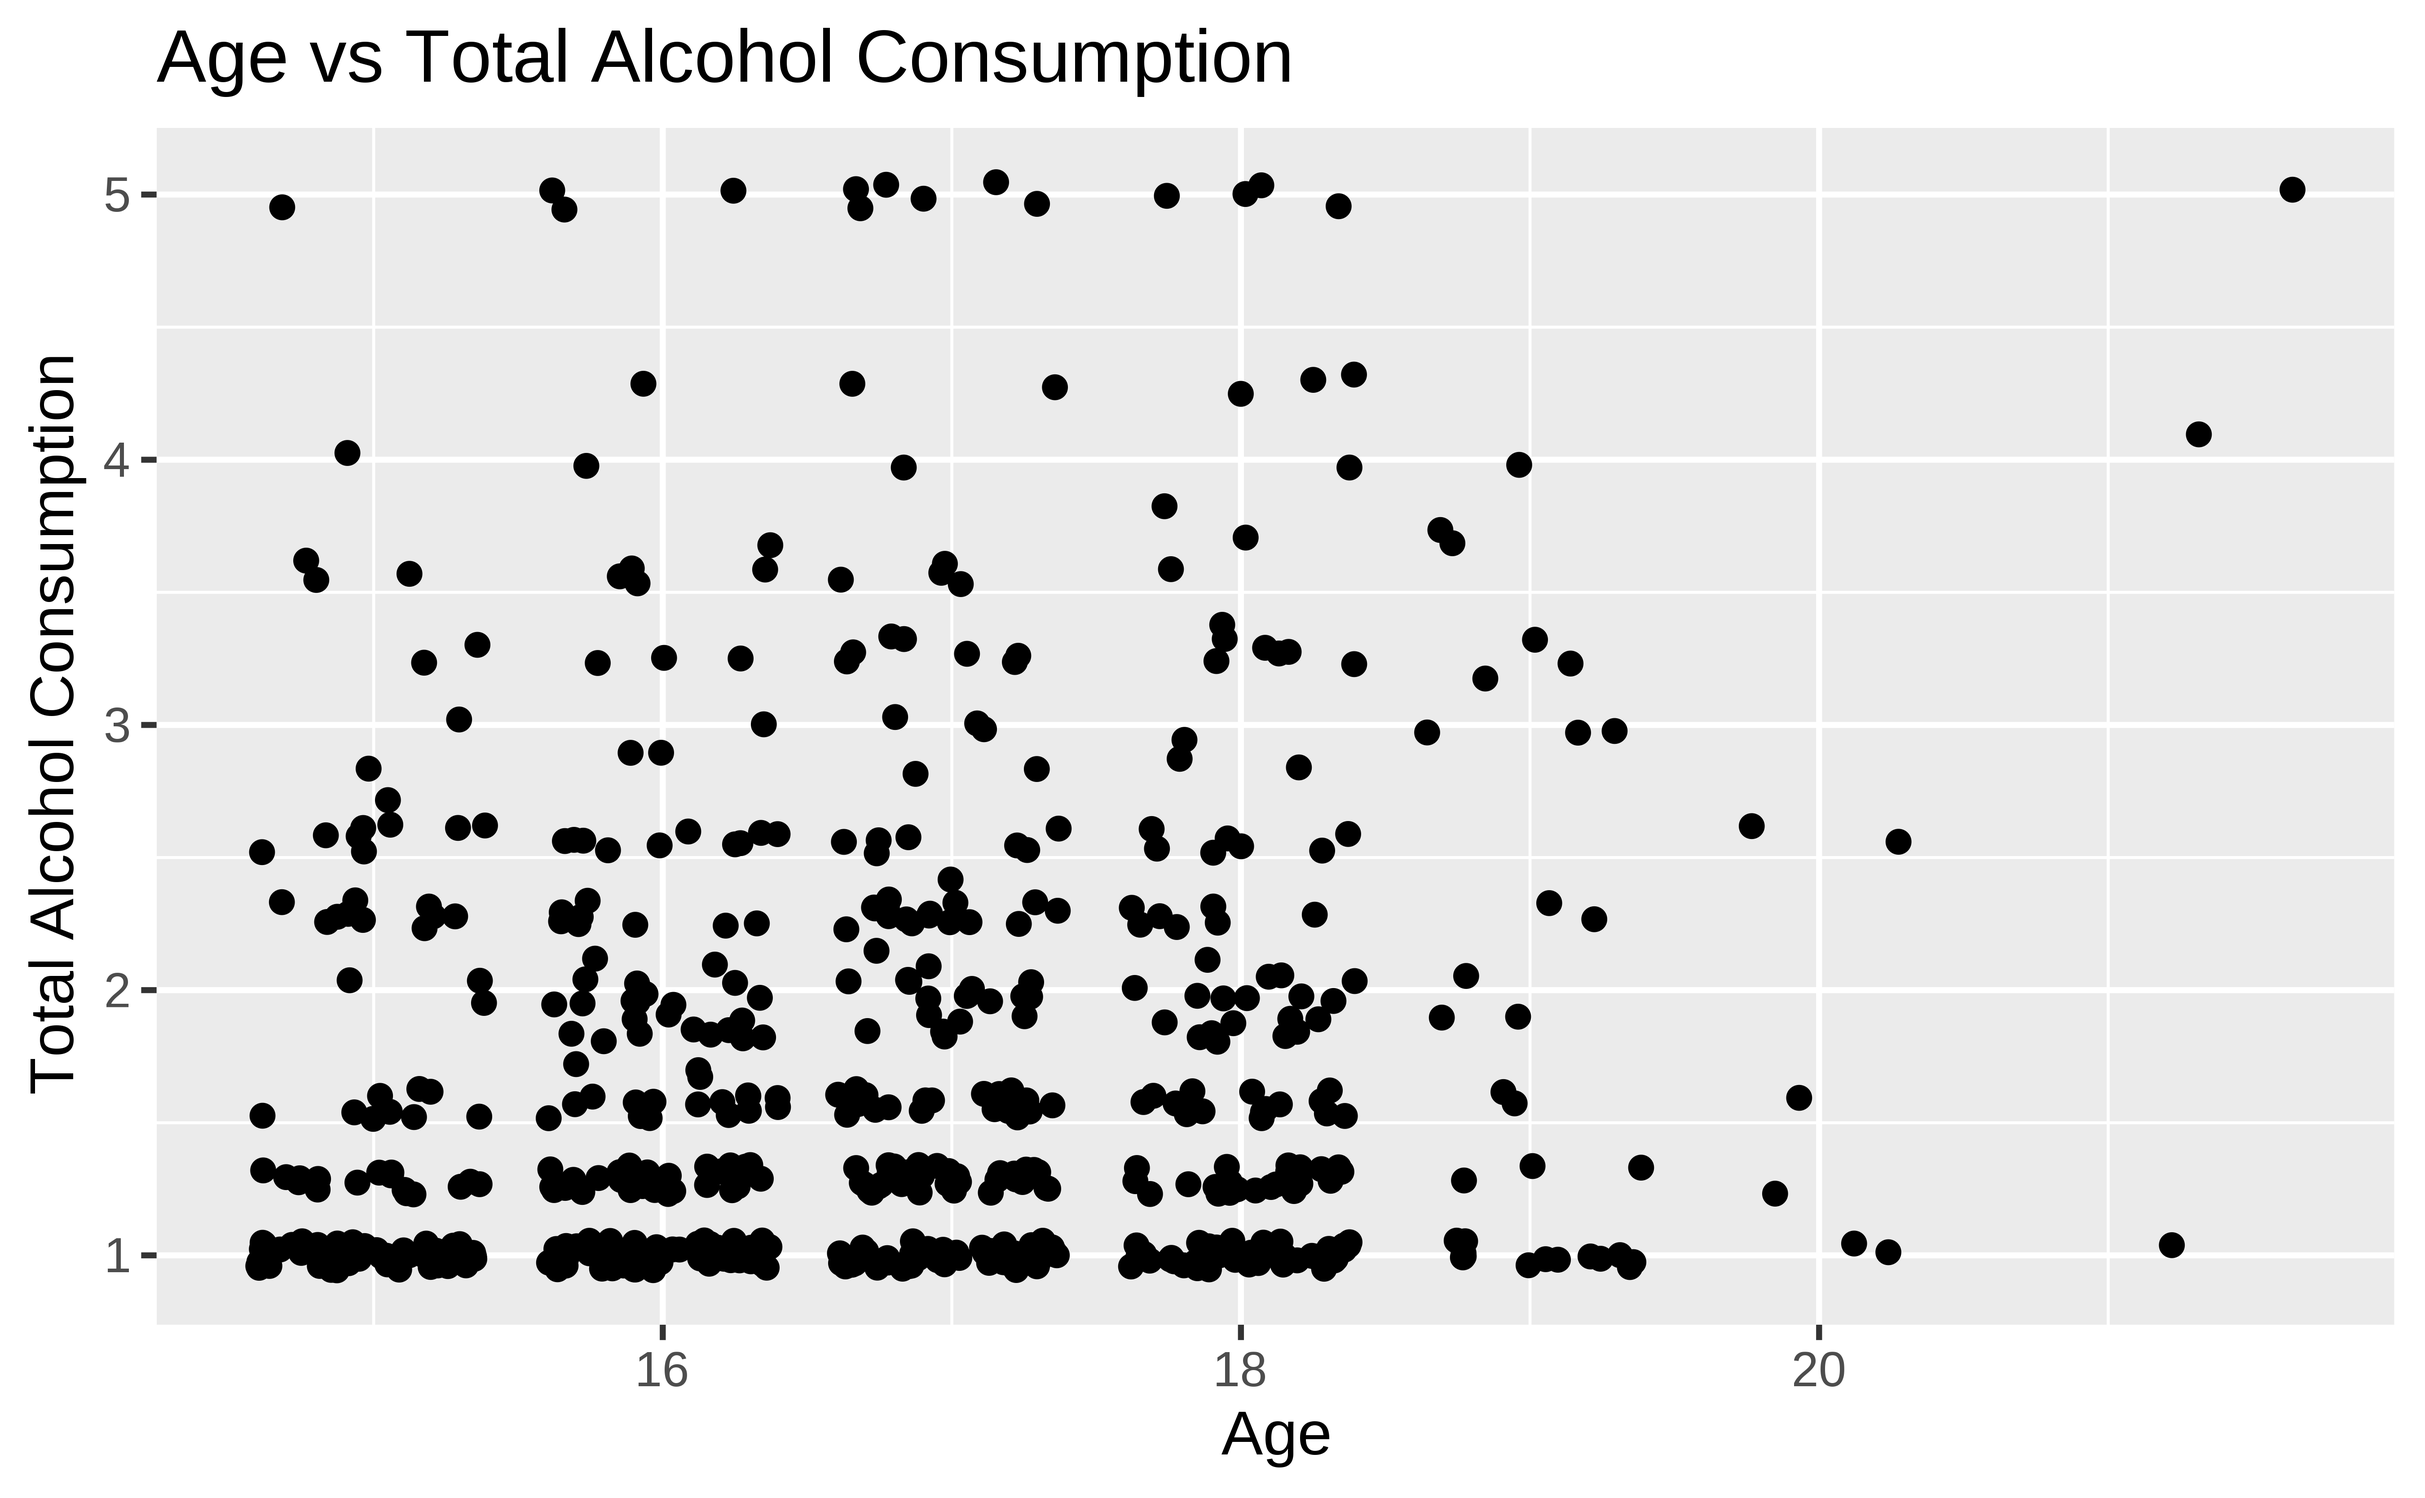
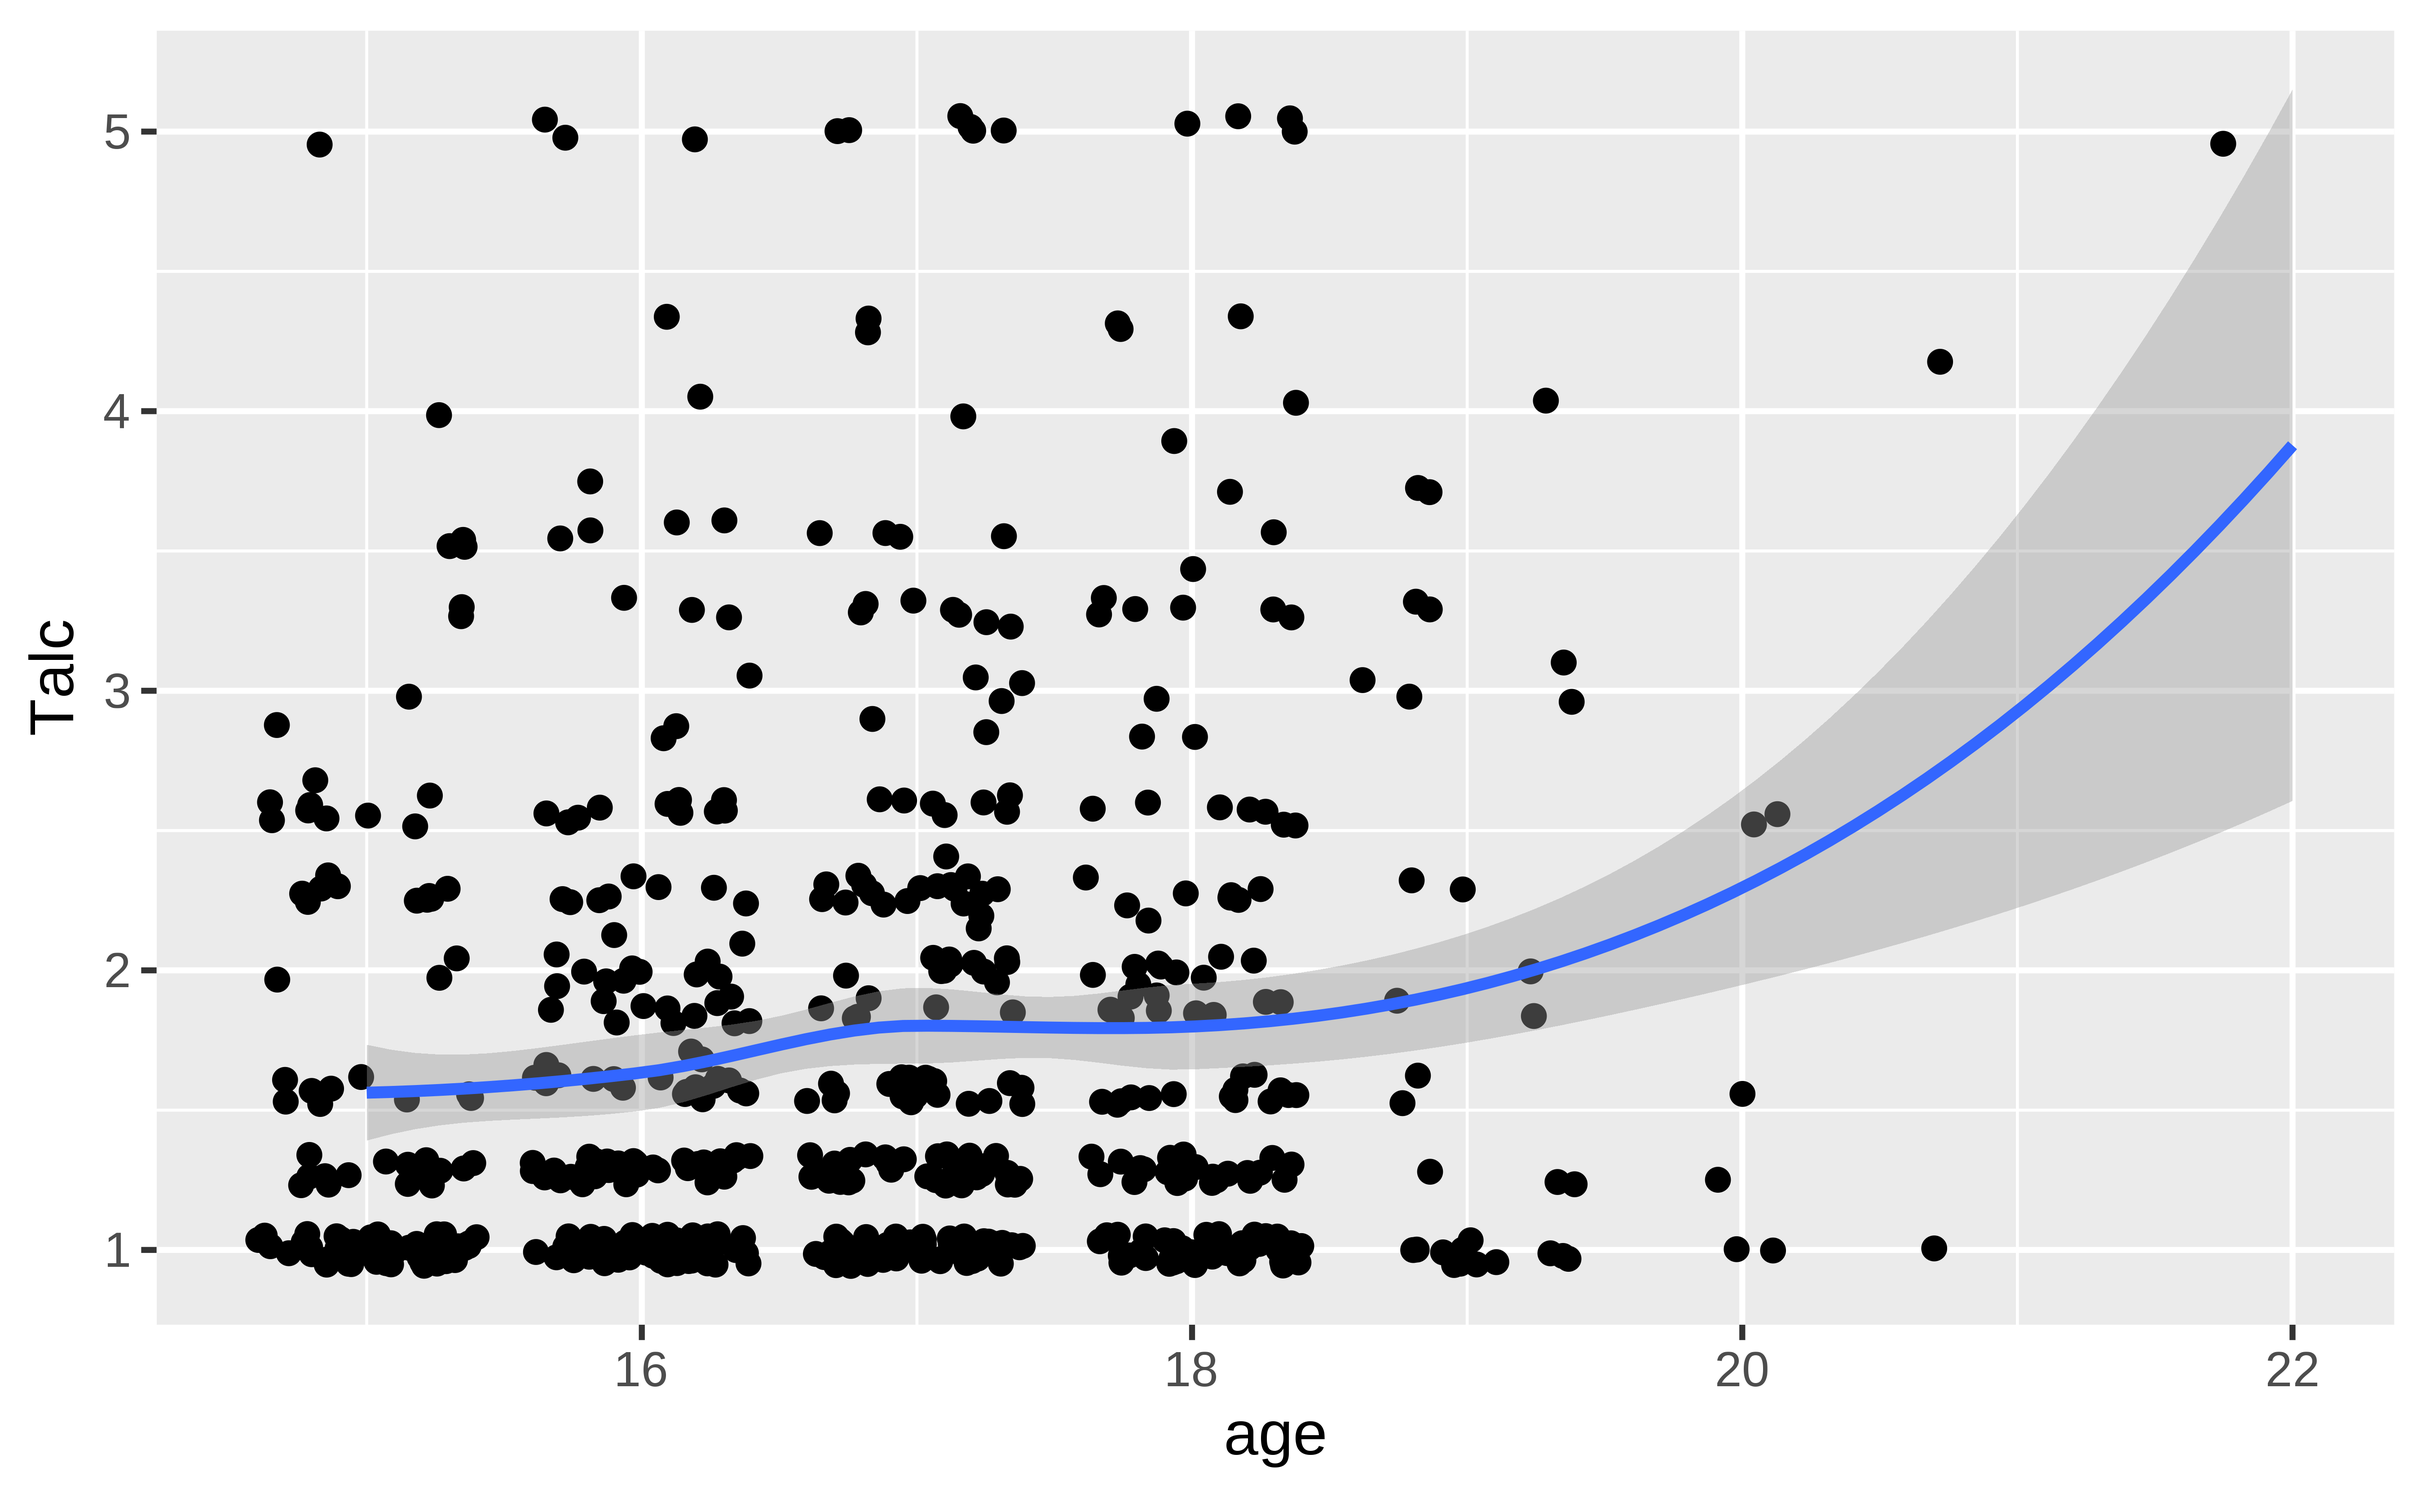
EDA

diff --git a/presentation/presentation.html b/presentation/presentation.html
@@ -50,9 +50,35 @@ The goal of our research will be to identify the academic and social factors tha
 
 Roughly 11.56% of students have a total alcohol consumption higher than 3 (out of a max of 5).
 ---
-class: inverse, middle, center
 
+#Sex
+
+&lt;img src="presentation_files/figure-html/sex-1.png" width="80%" /&gt;
+
+---
+
+# Age
+
+```
+## `geom_smooth()` using method = 'loess' and formula 'y ~ x'
+```
+
+&lt;img src="presentation_files/figure-html/age-1.png" width="80%" /&gt;
+
+---
+
+
+#Reason
+&lt;img src="presentation_files/figure-html/reason-1.png" width="80%" /&gt;
+---
+
+# Parent Cohabitation
+
+&lt;img src="presentation_files/figure-html/Pstatus-1.png" width="80%" /&gt;
+---
+---
 # First attempt 
+  
 
 ---
 
@@ -190,8 +216,31 @@ tidy(alcoholism_fit)
 ```
 ]
 ---
+---
+
+class: inverse, middle, center
+
+# Discussion
+
+---
+
+# Implications
+
+
+
+---
+
 # Limitations
 
+Some of the limitations within in our data analysis and results:
+
+1. For the logistic model, the model would have been more accurate if there were more individuals who fell under the Alcoholism factor '1'.
+
+2. The sample was only based on individuals in secondary school taking Portuguese language courses and the school itself is in Portugal. Thus the model should be carefully interpreted for those outside of this demographic.
+
+3. Given the sample was taken within the same school, it is possible that there is slightly non-independence among the observations due to factors like peer pressure.
+
+4. The data set was also independently sourced from https://www.kaggle.com/uciml/student-alcohol-consumption/discussion/206577, and relied on self-reporting alcohol consumption factors.
 
 ---
 

diff --git a/presentation/xaringan-themer.css b/presentation/xaringan-themer.css
@@ -15,7 +15,7 @@
  *    - xaringan wiki: https://github.com/yihui/xaringan/wiki
  *    - remarkjs wiki: https://github.com/gnab/remark/wiki
  *
- *  Version: 0.3.4
+ *  Version: 0.3.3
  *
  * ------------------------------------------------------- */
 @import url(https://fonts.googleapis.com/css?family=Noto+Sans:400,400i,700,700i&display=swap);
